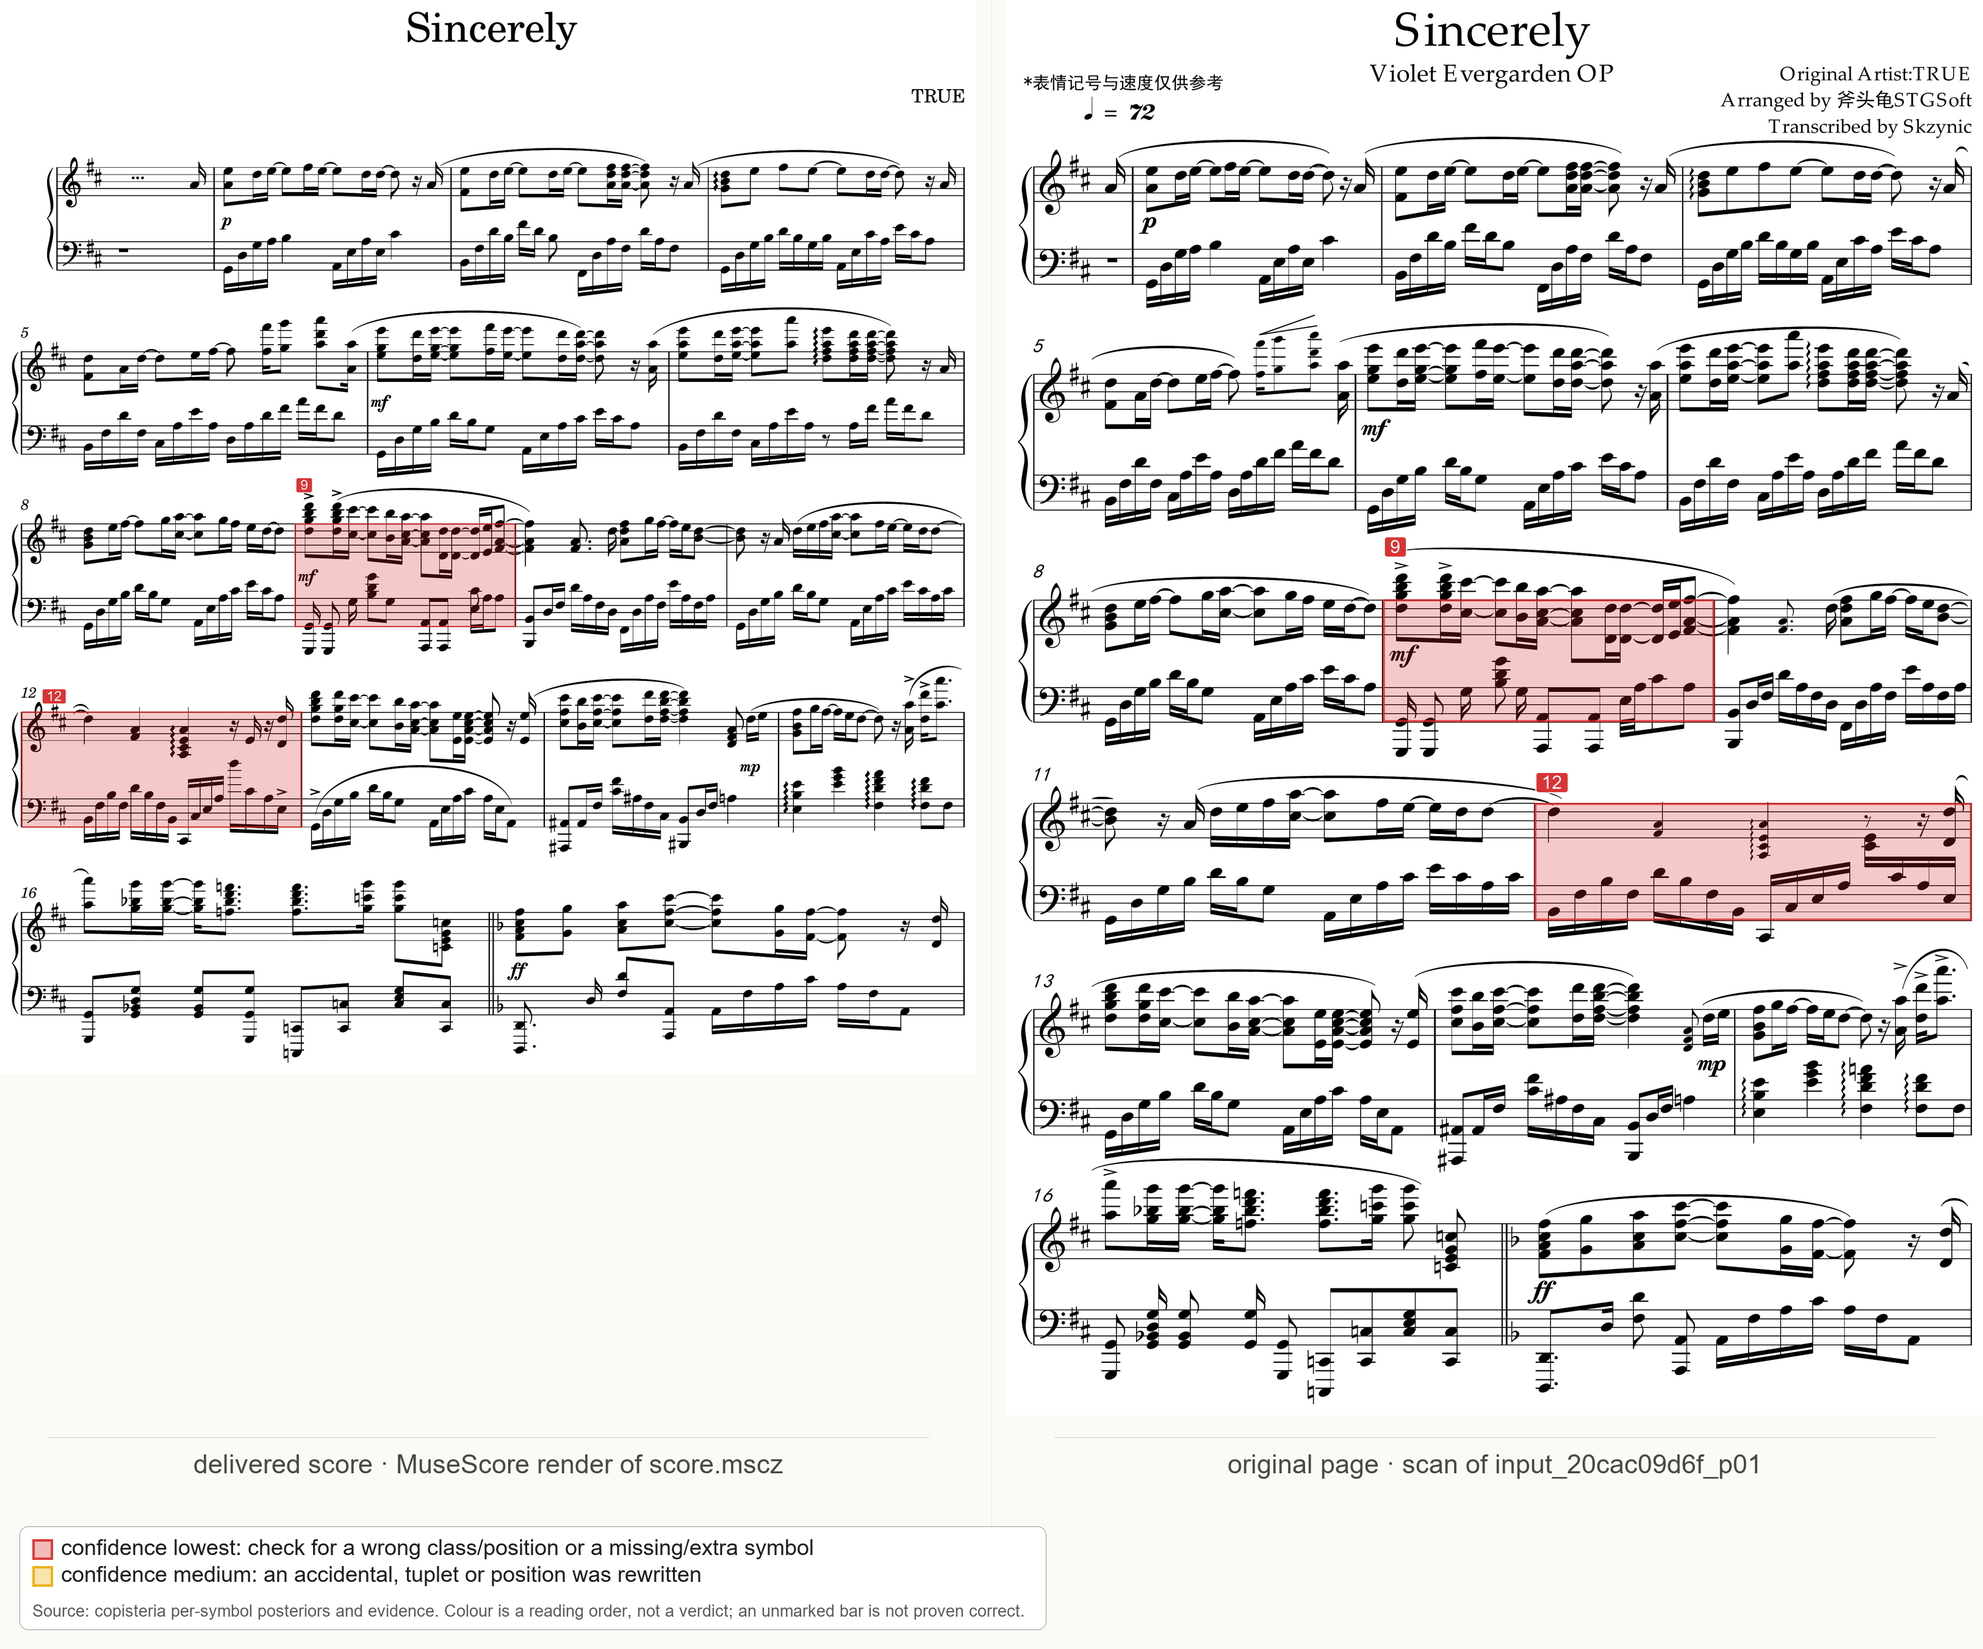
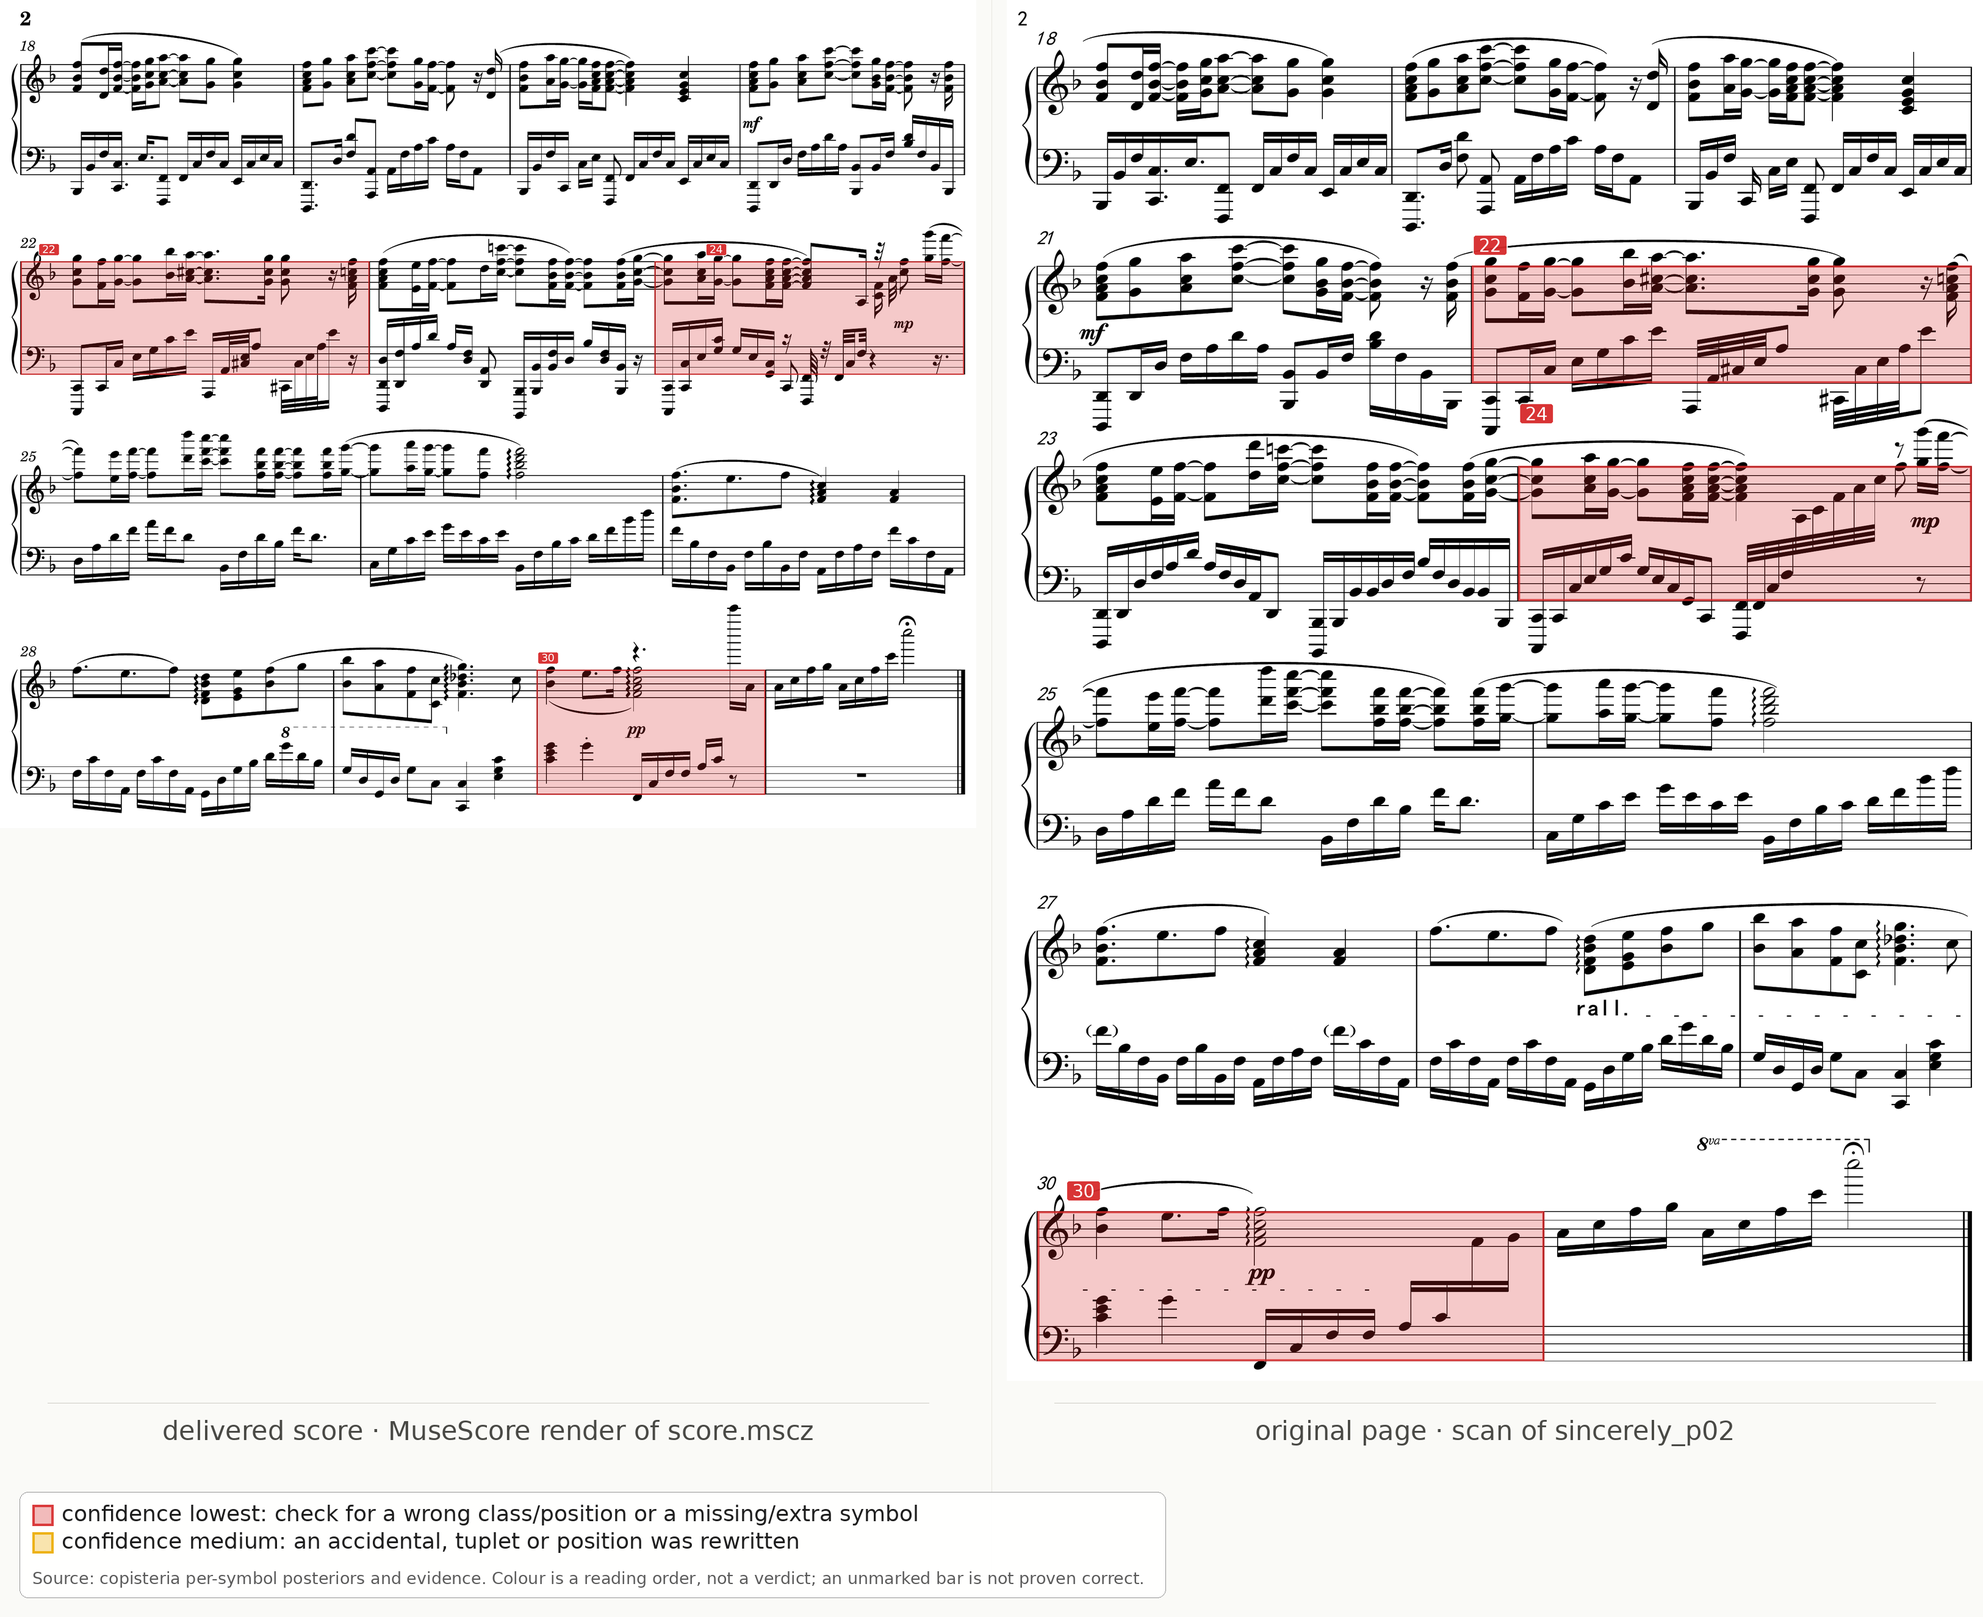
docs: update SKILL, READMEs, and English demo images

diff --git a/README_EN.md b/README_EN.md
@@ -32,7 +32,7 @@ Below is *Sincerely* m16–18, showing the original score, the raw OMR MusicXML,
 
 ![Single-system comparison of the original, raw OMR MusicXML, and repaired MusicXML](docs/images/demo-omr-xml.png)
 
-This excerpt mainly demonstrates **beam-grouping and local layout cleanup** — for example, the left hand in m16 changes from a single beam spanning the whole bar to beams grouped by beat. It is not proof of recognition accuracy; pitch, voice, and other differences between the original and the result still require human verification. Measure durations, ties, and the structure after MuseScore import are checked separately by the reports and review tools.
+This excerpt mainly demonstrates **beam-grouping and local layout cleanup** — for example, the left hand in m16 and m18 is re-beamed by beat, the redundant page-boundary clef at the end of m17 is removed, and the slur over m18 is restored. It is not proof of recognition accuracy; pitch, voice, and other differences between the original and the result still require human verification. Measure durations, ties, and the structure after MuseScore import are checked separately by the reports and review tools.
 
 It **never changes pitches by guesswork**. Titles, tempo marks, and supplementary score information are injected through evidence-backed facts or restricted patches.
 
@@ -137,7 +137,7 @@ python -m scorepipe.cli "out/score/work/copisteria" -o "out/score/score.musicxml
 ## Facts, patches, and AI assistants
 
 - **facts**: inject explicit facts such as title, composer, tempo, rehearsal marks, and multi-part instrument metadata (`parts`: part names, abbreviations, instrument presets, or GM programs); every item must carry a page number and evidence. See [`references/facts.md`](references/facts.md) for preparation and validation.
-- **notation patch**: use note anchors to add well-evidenced 8va/8vb, tuplet, or clef corrections (with optional `part` targeting); when the range is uncertain, leave it unresolved rather than auto-expanding. See [`references/notation-patches.md`](references/notation-patches.md).
+- **notation patch**: use note anchors to add well-evidenced `ottava` (8va/8vb, including single-chord same-beat), `tuplet`, `clef`, `pedal`, `wedge` (hairpin), or `dynamic` corrections (with optional `part` targeting), as well as controlled application of human-accepted pitch/octave/duration `corrections`; when the range is uncertain, leave it unresolved rather than auto-expanding. See [`references/notation-patches.md`](references/notation-patches.md).
 - **AI assistants**: this repo also provides [`SKILL.md`](SKILL.md), which constrains an assistant through environment checks, per-page OMR, evidence collection, review, and delivery. An assistant may propose corrections, but it cannot treat its own proposals as accepted results.
 
 ## Scope and limitations
@@ -145,7 +145,7 @@ python -m scorepipe.cli "out/score/work/copisteria" -o "out/score/score.musicxml
 - Targets **printed staff notation**, with **single-`<part>` scores** (grand-staff piano and solo-line parts) as the primary stable path.
 - **Multi-`<part>` scores (experimental)**: experimental support is available for voice + piano art songs, small ensembles, and band full scores, including multi-part page merging, per-part structural repair and overfull truncation, automatic GM drumset mapping with cymbal `x` noteheads for single-staff percussion parts, and `facts.json` `parts` instrument assignment. Cross-page part alignment, complex drum tuplets, and non-Western instrument labels remain experimental and require visual review via `review-sheets.pdf`. Handwritten scores, numbered notation (jianpu), and tablature are not validated.
 - OMR can still produce octave, ledger-line, voice, rest, and dense-chord errors. Passing structural validation does not mean pitches are correct — **human review is not optional**.
-- Pedals, hairpins, and optional-note brackets cannot be reliably auto-delivered; missing items are recorded explicitly rather than filled in by guesswork.
+- OMR may still miss pedals, hairpins, and optional-note brackets; `pedal`, `wedge` (hairpin), and `dynamic` marks can be added via constrained notation patches, while unsupported items such as optional-note brackets are recorded explicitly rather than filled in by guesswork.
 - 8va/8vb requires a well-evidenced, accepted patch; if the covered range cannot be determined, it stays unresolved.
 - The PDF text layer may be misaligned or garbled; titles, composer, and tempo must be taken from page evidence.
 - One score at a time — no built-in batch processing. Skewed, perspective-distorted, or low-resolution scans significantly degrade recognition quality.

diff --git a/SKILL.md b/SKILL.md
@@ -6,7 +6,7 @@ description: >
   校对 OMR 输出时使用。覆盖环境配置、逐页 OMR、scorepipe 修复、facts 注入、
   视觉复核和交付。
 metadata:
-  version: "0.2.1"
+  version: "0.3.0"
 ---
 
 # Copisteria to MSCZ
@@ -88,7 +88,7 @@ python -m scorepipe.cli path/to/pages -o out/score/score.musicxml \
 
 ### 2. 逐页 OMR 与机械修复
 
-`convert.py` 通过内建 `scorepipe.copisteria` 适配器提取灰度页图并直接调用上游 `python -m copisteria.pipeline`（支持 `--detector 28m|2m`、`--device`、`--range`），再把**逐页目录**交给 scorepipe。页契约见 [`references/omr.md`](references/omr.md)。流水线按 structural → inject → display 运行到不动点，然后执行只读 verifier。
+`convert.py` 通过内建 `scorepipe.copisteria` 适配器提取灰度页图并直接调用上游 `python -m copisteria.pipeline`（支持 `--detector 28m|2m`、`--device`、`--range`、`--truncate-overfull`），再把**逐页目录**交给 scorepipe。页契约见 [`references/omr.md`](references/omr.md)。流水线按 structural（含复拍子/切分连梁分组 `BeamGrouper` 与保留连音组的声部合并）→ inject → display 运行到不动点，然后执行只读 verifier。
 
 检查 `report.json`：所有阶段必须 `stable=true`，交付件的 `verifier` 必须为空；无法解释的
 `measure-length`、hidden-rest 或导入差异都要追查。存在 ground truth 时再运行对应 comparator。
@@ -107,12 +107,14 @@ python scripts/agent_facts.py merge --parts review/facts/agent-page*.json --page
 ```
 
 `merge --pages N` 检查页覆盖，并另外写出 `facts-corrections.json` 和 `facts-report.json`。
-音高/时值 correction 不会自动应用；接受后须通过专门编辑流程修改并重新渲染。
+音高/八度/时值 `corrections` 不会自动应用；人类审阅后可通过 `scripts/notation_patches.py accept --corrections ...` 升级为 `accepted`，再用 `scripts/notation_patches.py apply --corrections ...` 在唯一音符锚点上受控应用并重新渲染（完整协议见 [`references/facts.md`](references/facts.md)）。
 
-8va/8vb、受限 tuplet 和 clef 使用音符锚点 patch，不用像素范围直接改谱：
+`ottava`（8va/8vb，含单和弦同拍）、受限 `tuplet`、`clef`、`pedal`、`wedge`（hairpin）和 `dynamic` 使用音符锚点 patch，不用像素范围直接改谱：
 
 ```bash
 python scripts/notation_patches.py map --input out/score/score.musicxml -o review/score-map.json
+python scripts/notation_patches.py accept --patches review/patches.json \
+  --musicxml out/score/score.musicxml --indices 0 --reviewer "reviewer" -o review/patches.accepted.json
 python -m scorepipe.cli path/to/pages -o out/score/score.musicxml \
   --mscz-out out/score/score.mscz --patches review/patches.accepted.json
 ```
@@ -129,6 +131,7 @@ python scripts/review.py "score.pdf" --pages path/to/omr-pages \
 
 缺页、`unresolved`、proposed correction 或 patch 校验失败会默认阻断 reviewed pipeline。
 `--allow-unresolved` / `--allow-corrections` 只用于临时试跑，覆盖项仍留在报告中。
+若某条 verifier finding 已由人工核对确认属于原谱自身特性或已知可接受尾差，可用 `--accept-verifier <measure:code>[,...]` 与 `--accept-reason "<原因>"` 显式记入 `review-report.json` 的 `accepted_findings`；若末小节所有声部均提前结束，可按需传 `--pad-last-measure`。
 
 review 自动生成两类辅助图：
 
@@ -166,7 +169,7 @@ Agent 是 producer，不是最终改谱者：
 ## 交付前验收
 
 - [ ] 所有阶段 `stable=true`，实际交付件 verifier 为空。
-- [ ] 页覆盖完整；`unresolved`、correction、override 和已知 OMR 缺陷均已说明。
+- [ ] 页覆盖完整；`unresolved`、correction、override、`accepted_findings` 和已知 OMR 缺陷均已说明。
 - [ ] `mechanical/` 与 reviewed 树均保留；发生截断时 `semantic/` 和截断报告齐全。
 - [ ] `score.musicxml`、`.mscz`、`score.pdf`、`review-sheets.pdf` 与报告均存在。
 - [ ] 对照图已打开检查，首尾、至少一个密集页和一个页缝已人工复核。

diff --git a/README.md b/README.md
@@ -32,7 +32,7 @@
 
 ![原谱、OMR 原始 MusicXML 与修复后 MusicXML 的单行对照](docs/images/demo-omr-xml.png)
 
-这个片段主要展示**连梁分组和局部排版的整理**，例如 m16 低音从贯穿整小节的连梁改为按拍分组。它不是识别准确率的证明；原谱与结果之间的音高、声部等差异仍需人工核对。小节时值、连线和 MuseScore 导入后的结构由报告与 review 工具另行检查。
+这个片段主要展示**连梁分组和局部排版的整理**，例如 m16/m18 低音按拍重排连梁分组，清理 m17 末的冗余跨页谱号，并恢复 m18 的圆滑线。它不是识别准确率的证明；原谱与结果之间的音高、声部等差异仍需人工核对。小节时值、连线和 MuseScore 导入后的结构由报告与 review 工具另行检查。
 
 它**不会凭猜测改音高**。标题、速度和谱面补充信息通过带证据的 facts 或受限 patch 注入。
 
@@ -137,7 +137,7 @@ python -m scorepipe.cli "out/score/work/copisteria" -o "out/score/score.musicxml
 ## facts、patch 与 AI 助手
 
 - **facts**：注入标题、作曲、速度、排练号以及多声部乐器元数据（`parts`：声部名、简称、乐器预设或 GM 音色）等明确事实；每项都应带页码和证据。准备与校验流程见 [`references/facts.md`](references/facts.md)。
-- **notation patch**：用音符锚点补入证据充分的 8va/8vb、连音组或谱号修正（支持按 `part` 定位）；范围不确定时保留为未决，不自动扩张。见 [`references/notation-patches.md`](references/notation-patches.md)。
+- **notation patch**：用音符锚点补入证据充分的 `ottava`（8va/8vb，含单和弦同拍）、`tuplet`、`clef`、`pedal`、`wedge`（hairpin）与 `dynamic` 修正（支持按 `part` 定位），也支持对人工接受的音高/八度/时值 `corrections` 做受控应用；范围不确定时保留为未决，不自动扩张。见 [`references/notation-patches.md`](references/notation-patches.md)。
 - **AI 助手**：本仓库同时提供 [`SKILL.md`](SKILL.md)，约束助手完成环境检查、逐页 OMR、证据收集、复核和交付。助手可以提出修正，但不能自行把提案当作已接受结果。
 
 ## 适用范围与限制
@@ -145,7 +145,7 @@ python -m scorepipe.cli "out/score/work/copisteria" -o "out/score/score.musicxml
 - 面向**印刷五线谱**，稳定主力场景为**单 `<part>` 乐谱**（双谱表钢琴谱与单行旋律）。
 - **多 `<part>` 乐谱（实验性）**：已实验性支持声乐 + 钢琴艺术歌曲、小型室内乐与乐队总谱的整谱合并、逐声部修复/截断、单谱表架子鼓 GM 鼓键与镲片 `x` 符头自动映射，以及通过 `facts.json` 注入各声部乐器音色；但跨页声部对齐、复杂打击乐连音与中文乐器标签等场景仍处于实验阶段，需结合 `review-sheets.pdf` 人工复核。手写谱、简谱、六线谱不属于已验证场景。
 - OMR 仍可能产生八度、加线、声部、休止符和密集和弦错误。结构校验通过不代表音高正确，**人工核对不可省略**。
-- 踏板、hairpin、可选音符括号等记号不能可靠地自动进入交付；缺失项应明确记录，不靠猜测补齐。
+- OMR 仍可能漏掉踏板、hairpin、可选音符括号等记号；其中踏板（`pedal`）、hairpin（`wedge`）与力度（`dynamic`）可通过受限 notation patch 补入，其余未覆盖记号应明确记录，不靠猜测补齐。
 - 8va/8vb 需要证据充分且经接受的 patch；无法确定覆盖范围时保持未决。
 - PDF 文字层可能错位或乱码，标题、作曲和速度应以页面证据为准。
 - 一次处理一份乐谱；没有内建批处理。扫描倾斜、透视或分辨率过低会显著影响识别质量。

diff --git a/docs/images/README.md b/docs/images/README.md
@@ -4,12 +4,12 @@
 
 | 文件 | 内容 | 制作方式 |
 |---|---|---|
-| `demo-omr-xml.png` | 《Sincerely》m16–18：原谱、OMR 原始 MusicXML 与修复后 MusicXML 的对照 | 两份 XML 都用 MuseScore 渲染；各取同一小节范围，原谱跨页的两条谱表放在首组 |
-| `demo-3-final.png` | 小节级 review 对照页 | `review/sheets/<page>.compare.png`，左侧为最终交付 `score.mscz` 按扫描页分页渲染、右侧为原始扫描 |
+| `demo-omr-xml.png` | 《Sincerely》m16–18：原谱、OMR 原始 MusicXML 与修复后 MusicXML 的对照（英文图注） | 两份 XML 都用 MuseScore 渲染；各取同一小节范围，原谱跨页的两条谱表放在首组 |
+| `demo-3-final.png` | 小节级 review 对照页 | `review/sheets/<page>.compare.png`（选用第 2 页 `p02`，两侧均无标题与民间作者署名，左侧为最终交付 `score.mscz` 按扫描页分页渲染、右侧为原始扫描） |
 
 ## 替换原则
 
 - OMR 演示必须同时给出原谱，并渲染**原始 XML**，不要用符号置信度热图代替；修复前后应使用同一小节范围和同一渲染器。
 - 局部对照优先取一行谱，选择能直接看出结构或排版差异的片段；原谱跨页时可把对应谱表放在同一组并注明页码。
-- 整页图留给 review 部分，并保留左右两列、同色同号的小节和图例。
-- 图片使用 PNG 并控制文件大小；不要写入本机路径、运行日期或开发过程信息。
+- 整页图留给 review 部分，并保留左右两列、同色同号的小节和图例；优先选用不含标题与民间作者署名的内页。
+- 图注与界面文字统一使用英文；图片使用 PNG 并控制文件大小，不要写入本机路径、运行日期或开发过程信息。
